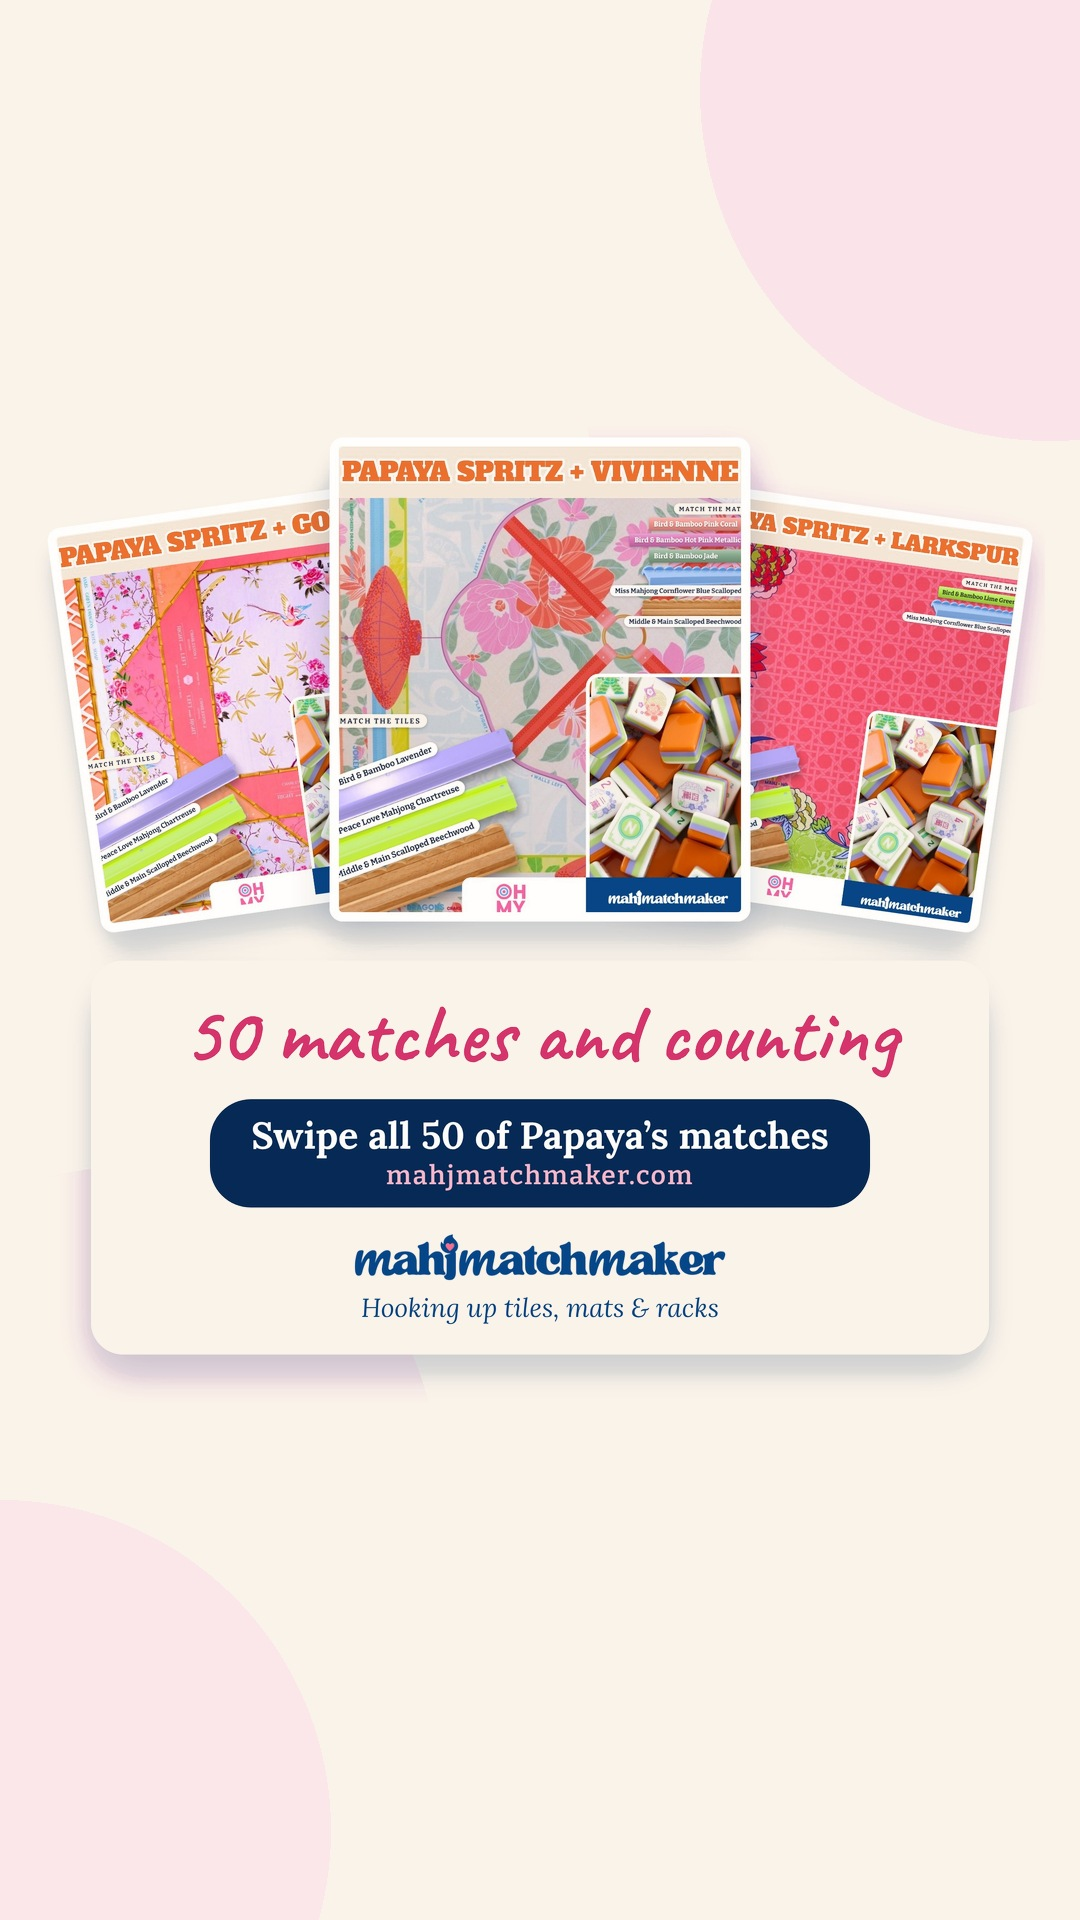
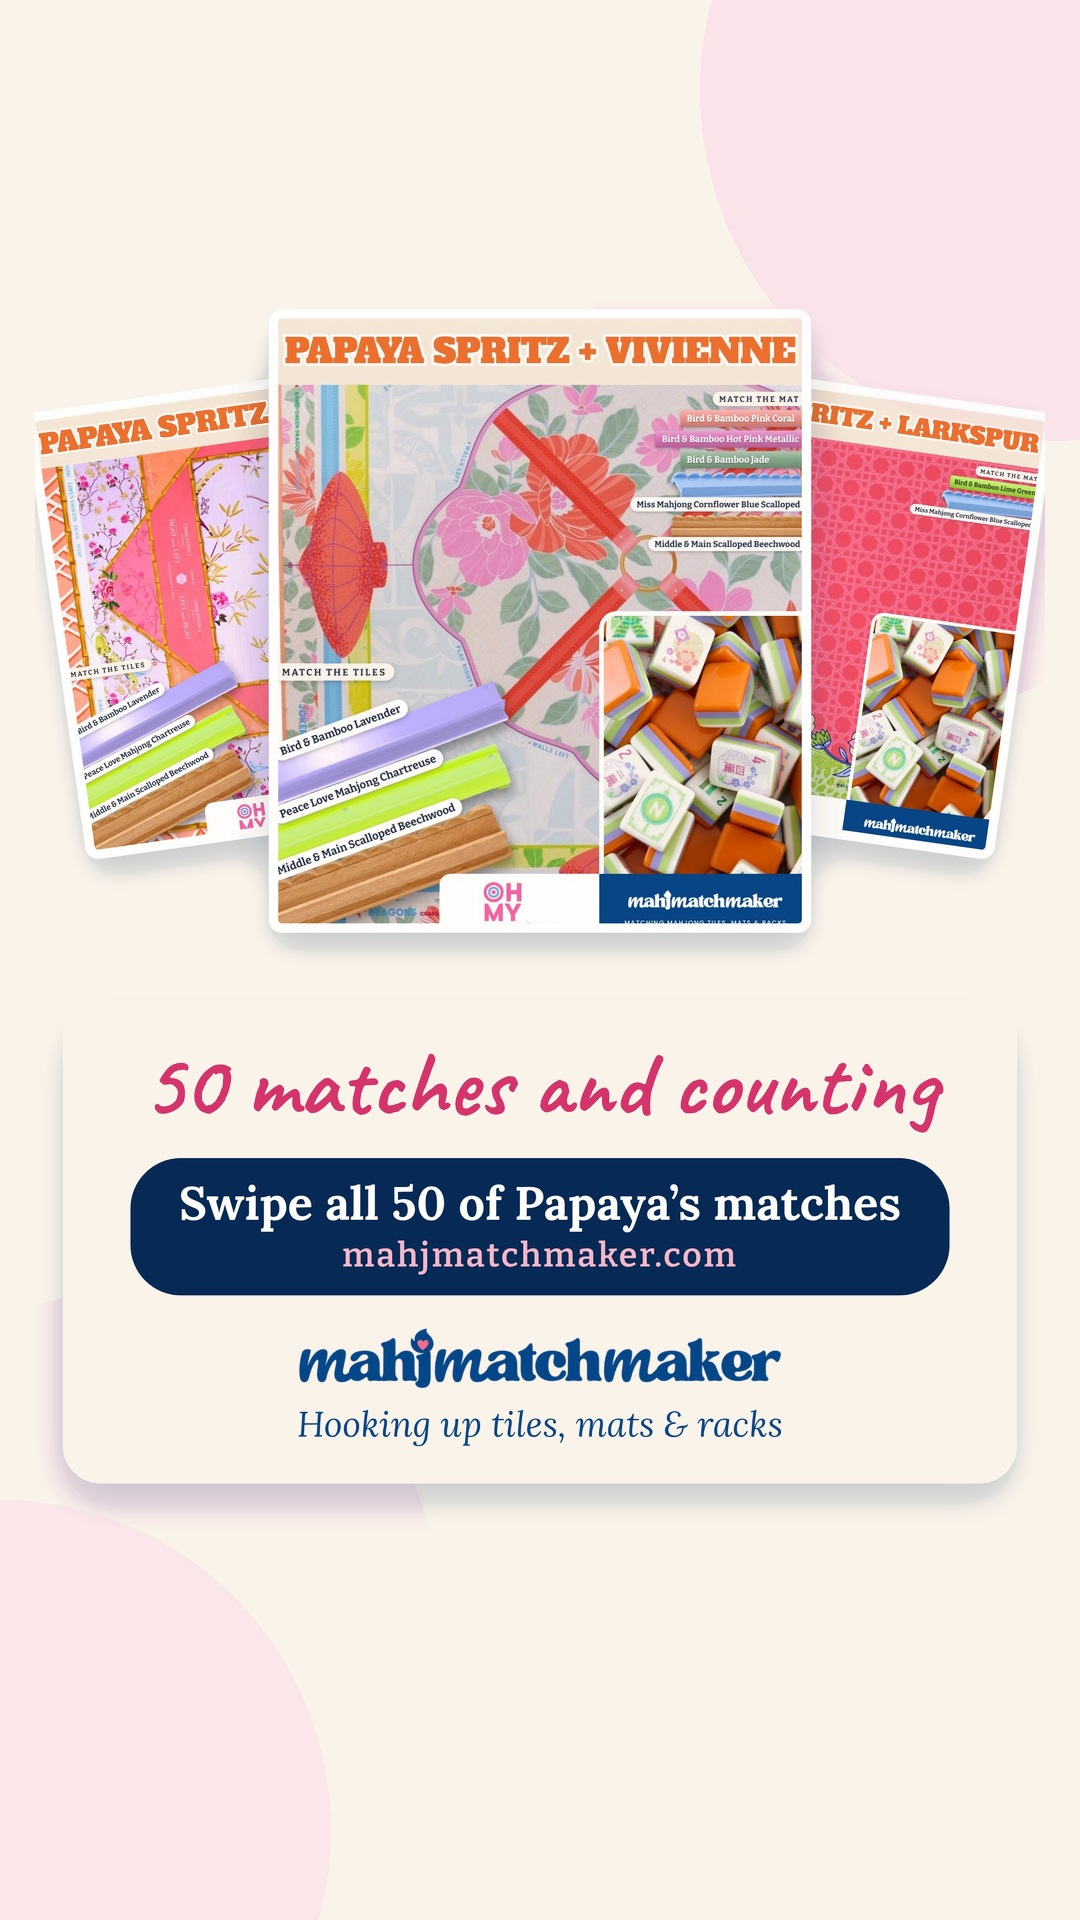
Stories: Papaya intro (7), Papaya x Heiress (3), Papaya x Vivienne (3) re-rendered centered + whole
- intro_framed.py STORY=1: native 1080x1920 story frames, card + X/heart row rendered whole (no cropped feed slide),
  scaled to fill the safe band (top 250 / bottom 340 clear) and centred; slide 7 fitted from a 2x render
- swipe_profile.py: up-arrow info circle removed; X + heart are the only buttons on the profile card
- story_frames.py --fit: key paper, crop to content, scale as big as the safe band allows, centre (no sticker bands)
- papaya_heiress_story_v2.py: blocks centred in 250..1580 and scaled to fill; no mention band
- omm_forward/render.py: DSF=2 + STORY3 taller story layout for slide 3
- slide 6 'light lime' kept together, balanced wrap; slide 5 spacing
Planoly drafts updated (undated): intro 01a15f72, Heiress 01a15f75, Vivienne 01a15f6f

Claude-Session: https://claude.ai/code/session_014aKoC1ZMdZPjGkZ9kHhnLk

diff --git a/scripts/social/omm_forward/render.py b/scripts/social/omm_forward/render.py
@@ -27,16 +27,16 @@ CARDS = 'assets/cards/papaya-spritz/papaya-spritz-mahjong-tiles-oh-my-mahjong-{}
 COUNT, SHORT = 50, 'Papaya'
 
 
-def shell(body):
+def shell(body, H=1350):
     return f"""<!doctype html><html><head><meta charset=utf8><style>
 @font-face{{font-family:Hand;src:url('{F}/Caveat-Bold.ttf')}}
 @font-face{{font-family:Lo;src:url('{G}/Lora-Variable.ttf')}}
 @font-face{{font-family:Lo;font-style:italic;src:url('{G}/Lora-Italic-Variable.ttf')}}
 @font-face{{font-family:Bit;font-weight:600;src:url('{F}/bitter-latin-600-normal.woff2')}}
 @font-face{{font-family:Bit;font-weight:700;src:url('{F}/bitter-latin-700-normal.woff2')}}
-*{{margin:0;padding:0;box-sizing:border-box}} body{{width:1080px;height:1350px;overflow:hidden}}
+*{{margin:0;padding:0;box-sizing:border-box}} body{{width:1080px;height:{H}px;overflow:hidden}}
 .k{{font-family:Bit;font-weight:700;letter-spacing:.2em;color:{WNAVY}}}
-</style></head><body><div id=pg style="position:relative;width:1080px;height:1350px;background:{PAPER};overflow:hidden">
+</style></head><body><div id=pg style="position:relative;width:1080px;height:{H}px;background:{PAPER};overflow:hidden">
 <div style="position:absolute;right:-210px;top:-230px;width:700px;height:700px;border-radius:50%;background:{BLUSHBG}"></div>
 <div style="position:absolute;left:-230px;bottom:-250px;width:660px;height:660px;border-radius:50%;background:{BLUSHBG};opacity:.75"></div>
 {body}</div></body></html>"""
@@ -100,7 +100,33 @@ def slide3():
 """)
 
 
+def slide3_story():
+    """Story version of slide 3 (Oct 21 1:47pm): taller layout, bigger cards and box, so the fitted story frame fills the
+    safe band instead of sitting in the middle with empty bands. Rendered on plain paper (story_frames --fit keys it)."""
+    cards = (card('goldie', 20, 120, 420, -8, 1) + card('larkspur', 640, 120, 420, 8, 1) +
+             card('vivienne', 250, 40, 580, 0, 3))
+    return shell(f"""{cards}
+<div style="position:absolute;left:30px;right:30px;top:780px;z-index:5;background:{PAPER};border-radius:40px;padding:40px 30px 40px;text-align:center;box-shadow:0 20px 50px rgba(6,42,85,.22)">
+  <div style="font-family:Hand;font-size:98px;line-height:1;white-space:nowrap;color:{PINK}">50 matches and counting</div>
+  <div style="display:inline-block;margin-top:30px;background:{NAVY};color:#fff;border-radius:54px;padding:20px 52px 22px;line-height:1.15">
+    <div style="font-family:Lo;font-weight:700;font-size:50px;white-space:nowrap">Swipe all {COUNT} of {SHORT}&rsquo;s matches</div>
+    <div style="font-family:Bit;font-weight:600;font-size:36px;letter-spacing:.06em;color:#f7b6c8;margin-top:6px">mahjmatchmaker.com</div>
+  </div>
+  <div><img src="{u('assets/brand/mahjmatchmaker-wordmark-notag.png')}" style="width:520px;margin-top:32px"></div>
+  <div style="font-family:Lo;font-style:italic;font-size:38px;color:{WNAVY};margin-top:6px;white-space:nowrap">Hooking up tiles, mats &amp; racks</div>
+</div>
+""", 1500)
+
+
 async def main():
+    if os.environ.get('STORY3') == '1':   # just the story version of slide 3 -> OUT/papaya-vivienne-omm-forward-3-story.jpg
+        from playwright.async_api import async_playwright
+        async with async_playwright() as p:
+            b = await p.chromium.launch(); pg = await b.new_page(viewport={'width': 1080, 'height': 1500}, device_scale_factor=2)
+            f = f'{OUT}/.s3story.html'; open(f, 'w').write(slide3_story())
+            await pg.goto('file://' + f); await pg.wait_for_timeout(600)
+            await pg.screenshot(path=f'{OUT}/papaya-vivienne-omm-forward-3-story.jpg', type='jpeg', quality=95); os.remove(f); await b.close()
+        print('wrote story 3'); return
     from playwright.async_api import async_playwright
     os.makedirs(OUT, exist_ok=True)
     names = ['papaya-vivienne-omm-forward-1-made-for-each-other', 'papaya-vivienne-omm-forward-2-favorite-faces',
